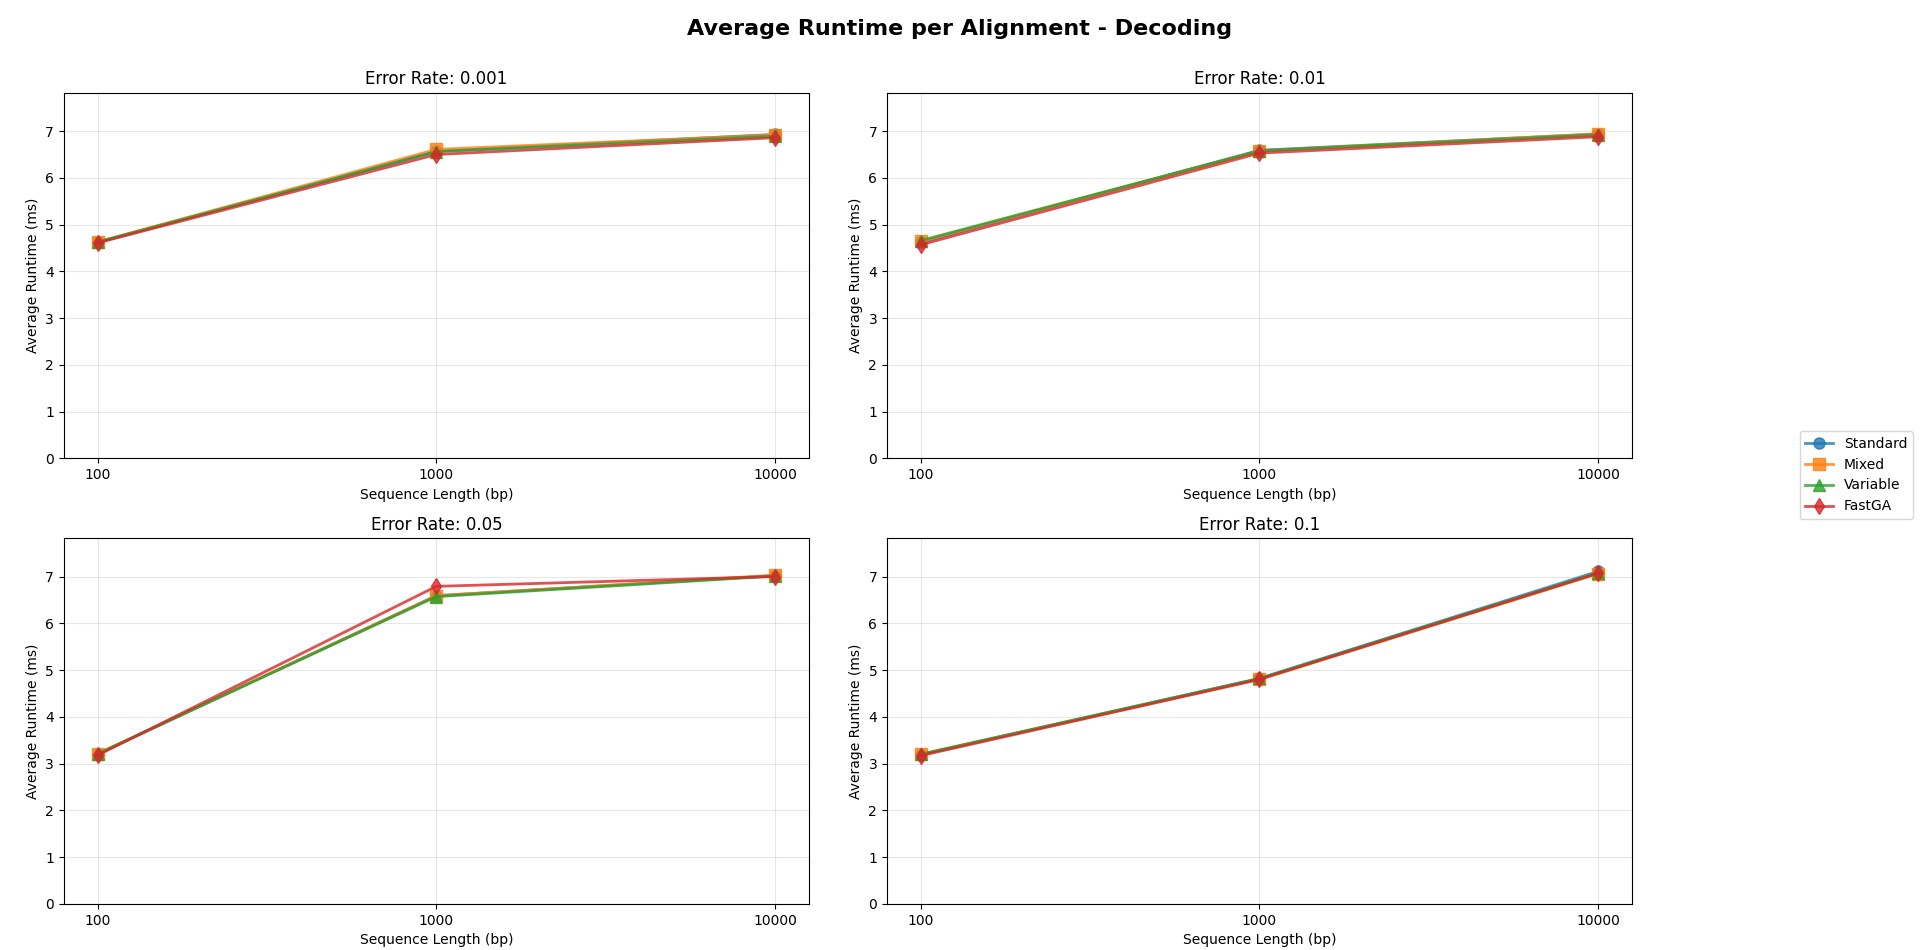
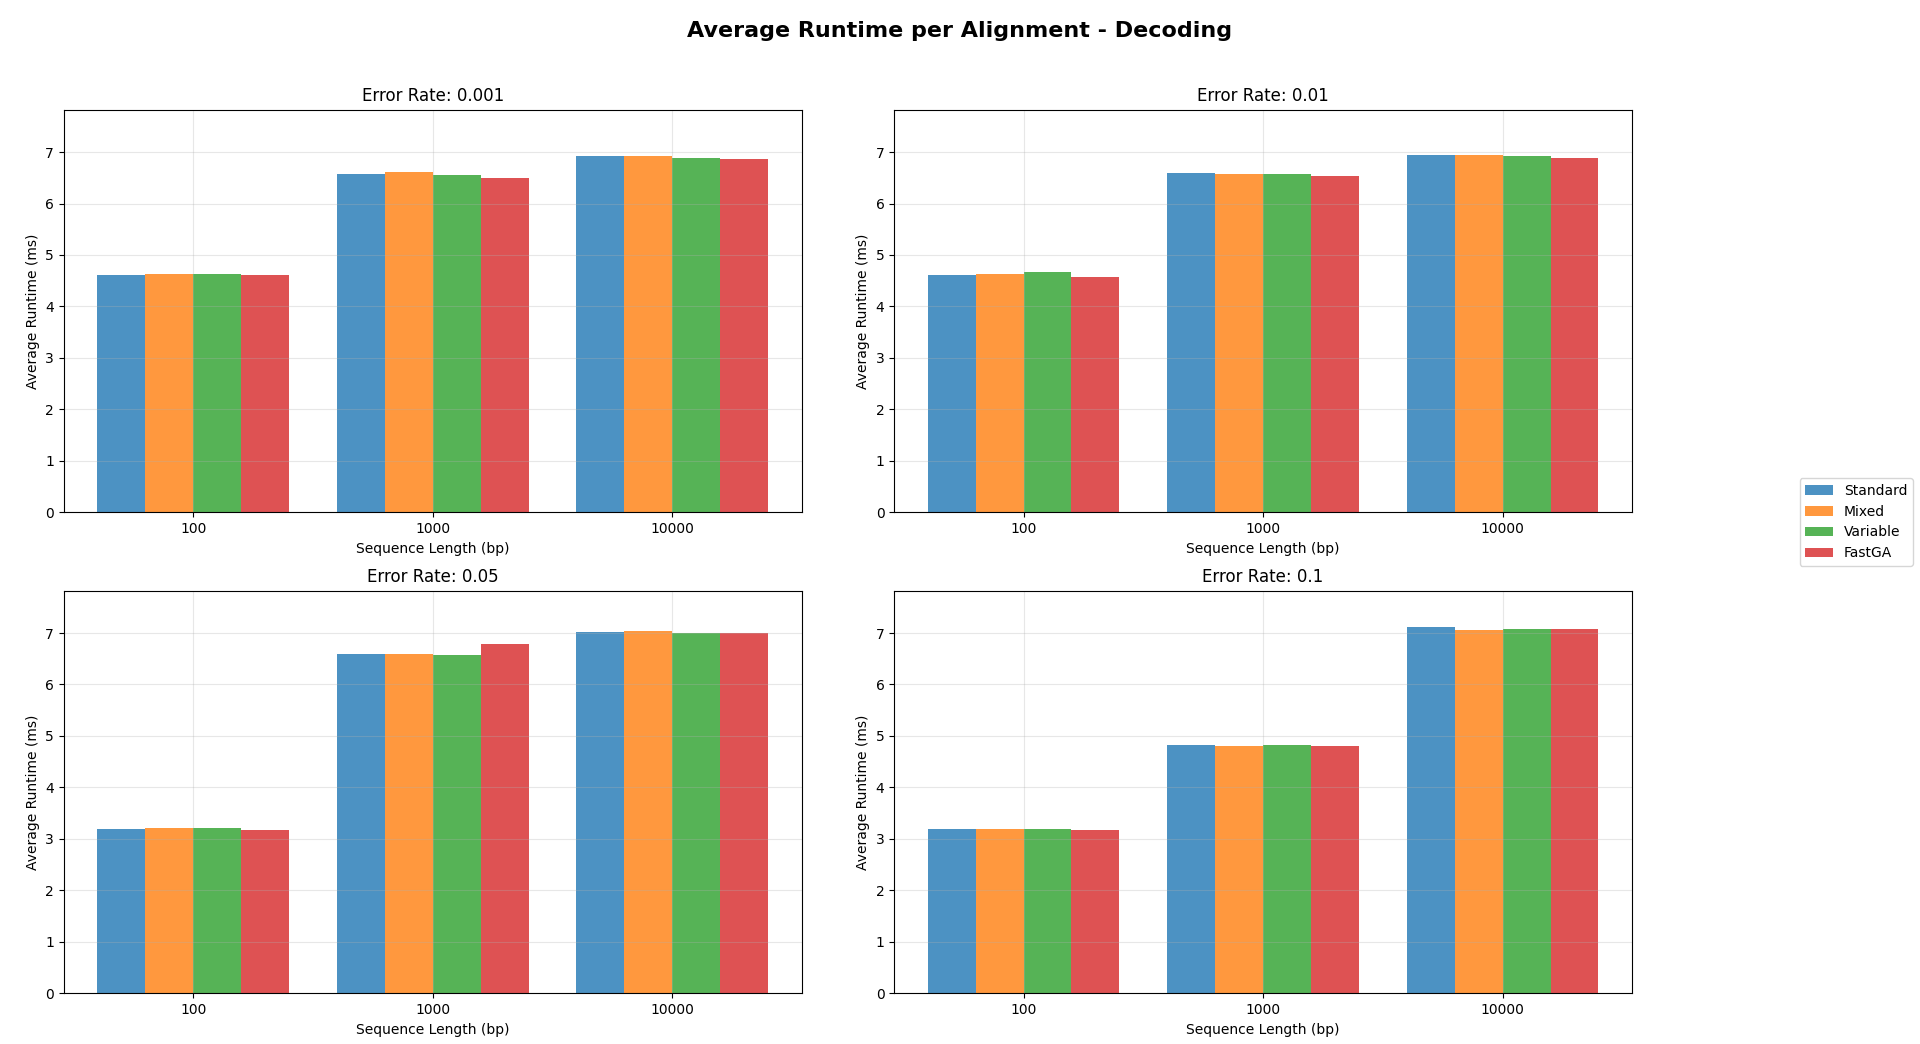
Update decoding charts

diff --git a/plot_scripts/decoding_plotter.py b/plot_scripts/decoding_plotter.py
@@ -114,8 +114,9 @@ for idx, error_rate in enumerate(error_rates):
     seq_lengths = sorted(error_data['Sequence Length'].unique())
     tracepoint_types = ['Standard', 'Mixed', 'Variable', 'FastGA']
     x_positions = np.arange(len(seq_lengths))
+    width = 0.2
     
-    for tp_type in tracepoint_types:
+    for i, tp_type in enumerate(tracepoint_types):
         tp_data = error_data[error_data['Tracepoint Type'] == tp_type]
         
         if not tp_data.empty:
@@ -129,19 +130,18 @@ for idx, error_rate in enumerate(error_rates):
                     runtimes.append(0)
             
             if idx == 0:
-                line = ax.plot(x_positions, runtimes, marker=markers[tp_type], 
-                             label=f'{tp_type}', color=colors[tp_type], 
-                             linewidth=2, markersize=8, alpha=0.8)
-                handles2.append(line[0])
+                bar = ax.bar(x_positions + i*width, runtimes, width, 
+                           label=f'{tp_type}', color=colors[tp_type], alpha=0.8)
+                handles2.append(bar)
                 labels2.append(f'{tp_type}')
             else:
-                ax.plot(x_positions, runtimes, marker=markers[tp_type], 
-                       color=colors[tp_type], linewidth=2, markersize=8, alpha=0.8)
+                ax.bar(x_positions + i*width, runtimes, width, 
+                       color=colors[tp_type], alpha=0.8)
     
     ax.set_xlabel('Sequence Length (bp)')
     ax.set_ylabel('Average Runtime (ms)')
     ax.set_title(f'Error Rate: {error_rate}')
-    ax.set_xticks(x_positions)
+    ax.set_xticks(x_positions + width*1.5)
     ax.set_xticklabels([f'{sl}' for sl in seq_lengths])
     ax.grid(True, alpha=0.3)
     ax.set_ylim(y_min_runtime, y_max_runtime)
@@ -181,8 +181,9 @@ for idx, error_rate in enumerate(error_rates):
     seq_lengths = sorted(error_data['Sequence Length'].unique())
     tracepoint_types = ['Standard', 'Mixed', 'Variable', 'FastGA']
     x_positions = np.arange(len(seq_lengths))
+    width = 0.2
     
-    for tp_type in tracepoint_types:
+    for i, tp_type in enumerate(tracepoint_types):
         tp_data = error_data[error_data['Tracepoint Type'] == tp_type]
         
         if not tp_data.empty:
@@ -196,19 +197,18 @@ for idx, error_rate in enumerate(error_rates):
                     memory_usage.append(0)
             
             if idx == 0:
-                line = ax.plot(x_positions, memory_usage, marker=markers[tp_type], 
-                             label=f'{tp_type}', color=colors[tp_type], 
-                             linewidth=2, markersize=8, alpha=0.8)
-                handles3.append(line[0])
+                bar = ax.bar(x_positions + i*width, memory_usage, width, 
+                           label=f'{tp_type}', color=colors[tp_type], alpha=0.8)
+                handles3.append(bar)
                 labels3.append(f'{tp_type}')
             else:
-                ax.plot(x_positions, memory_usage, marker=markers[tp_type], 
-                       color=colors[tp_type], linewidth=2, markersize=8, alpha=0.8)
+                ax.bar(x_positions + i*width, memory_usage, width, 
+                       color=colors[tp_type], alpha=0.8)
     
     ax.set_xlabel('Sequence Length (bp)')
     ax.set_ylabel('Peak Memory (MB)')
     ax.set_title(f'Error Rate: {error_rate}')
-    ax.set_xticks(x_positions)
+    ax.set_xticks(x_positions + width*1.5)
     ax.set_xticklabels([f'{sl}' for sl in seq_lengths])
     ax.grid(True, alpha=0.3)
     ax.set_ylim(y_min_memory, y_max_memory)
